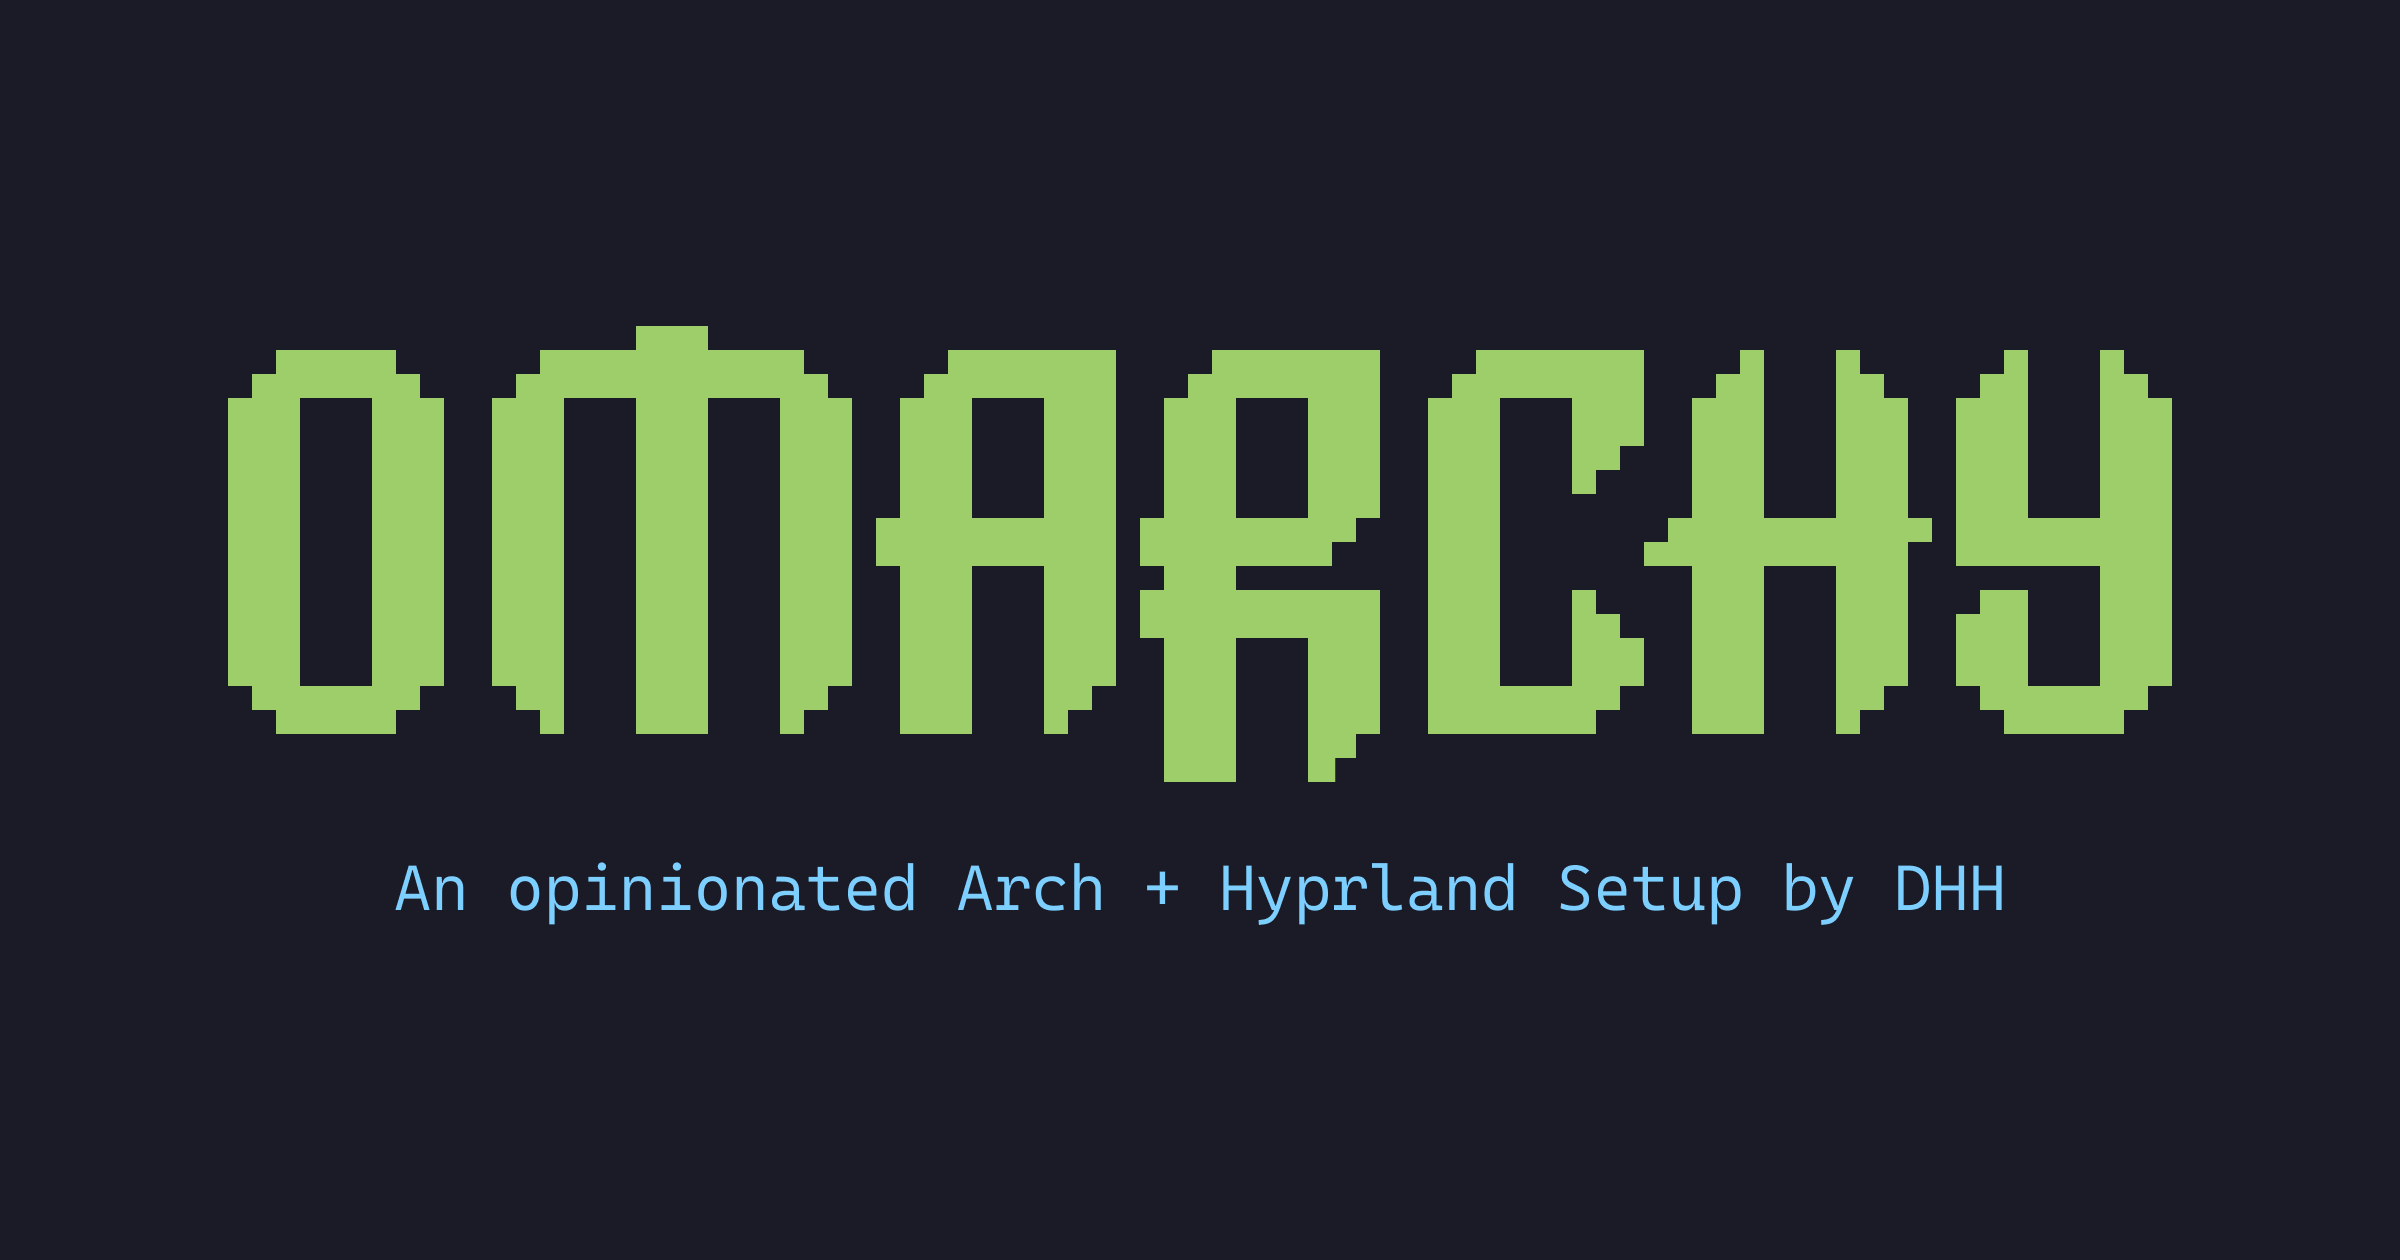
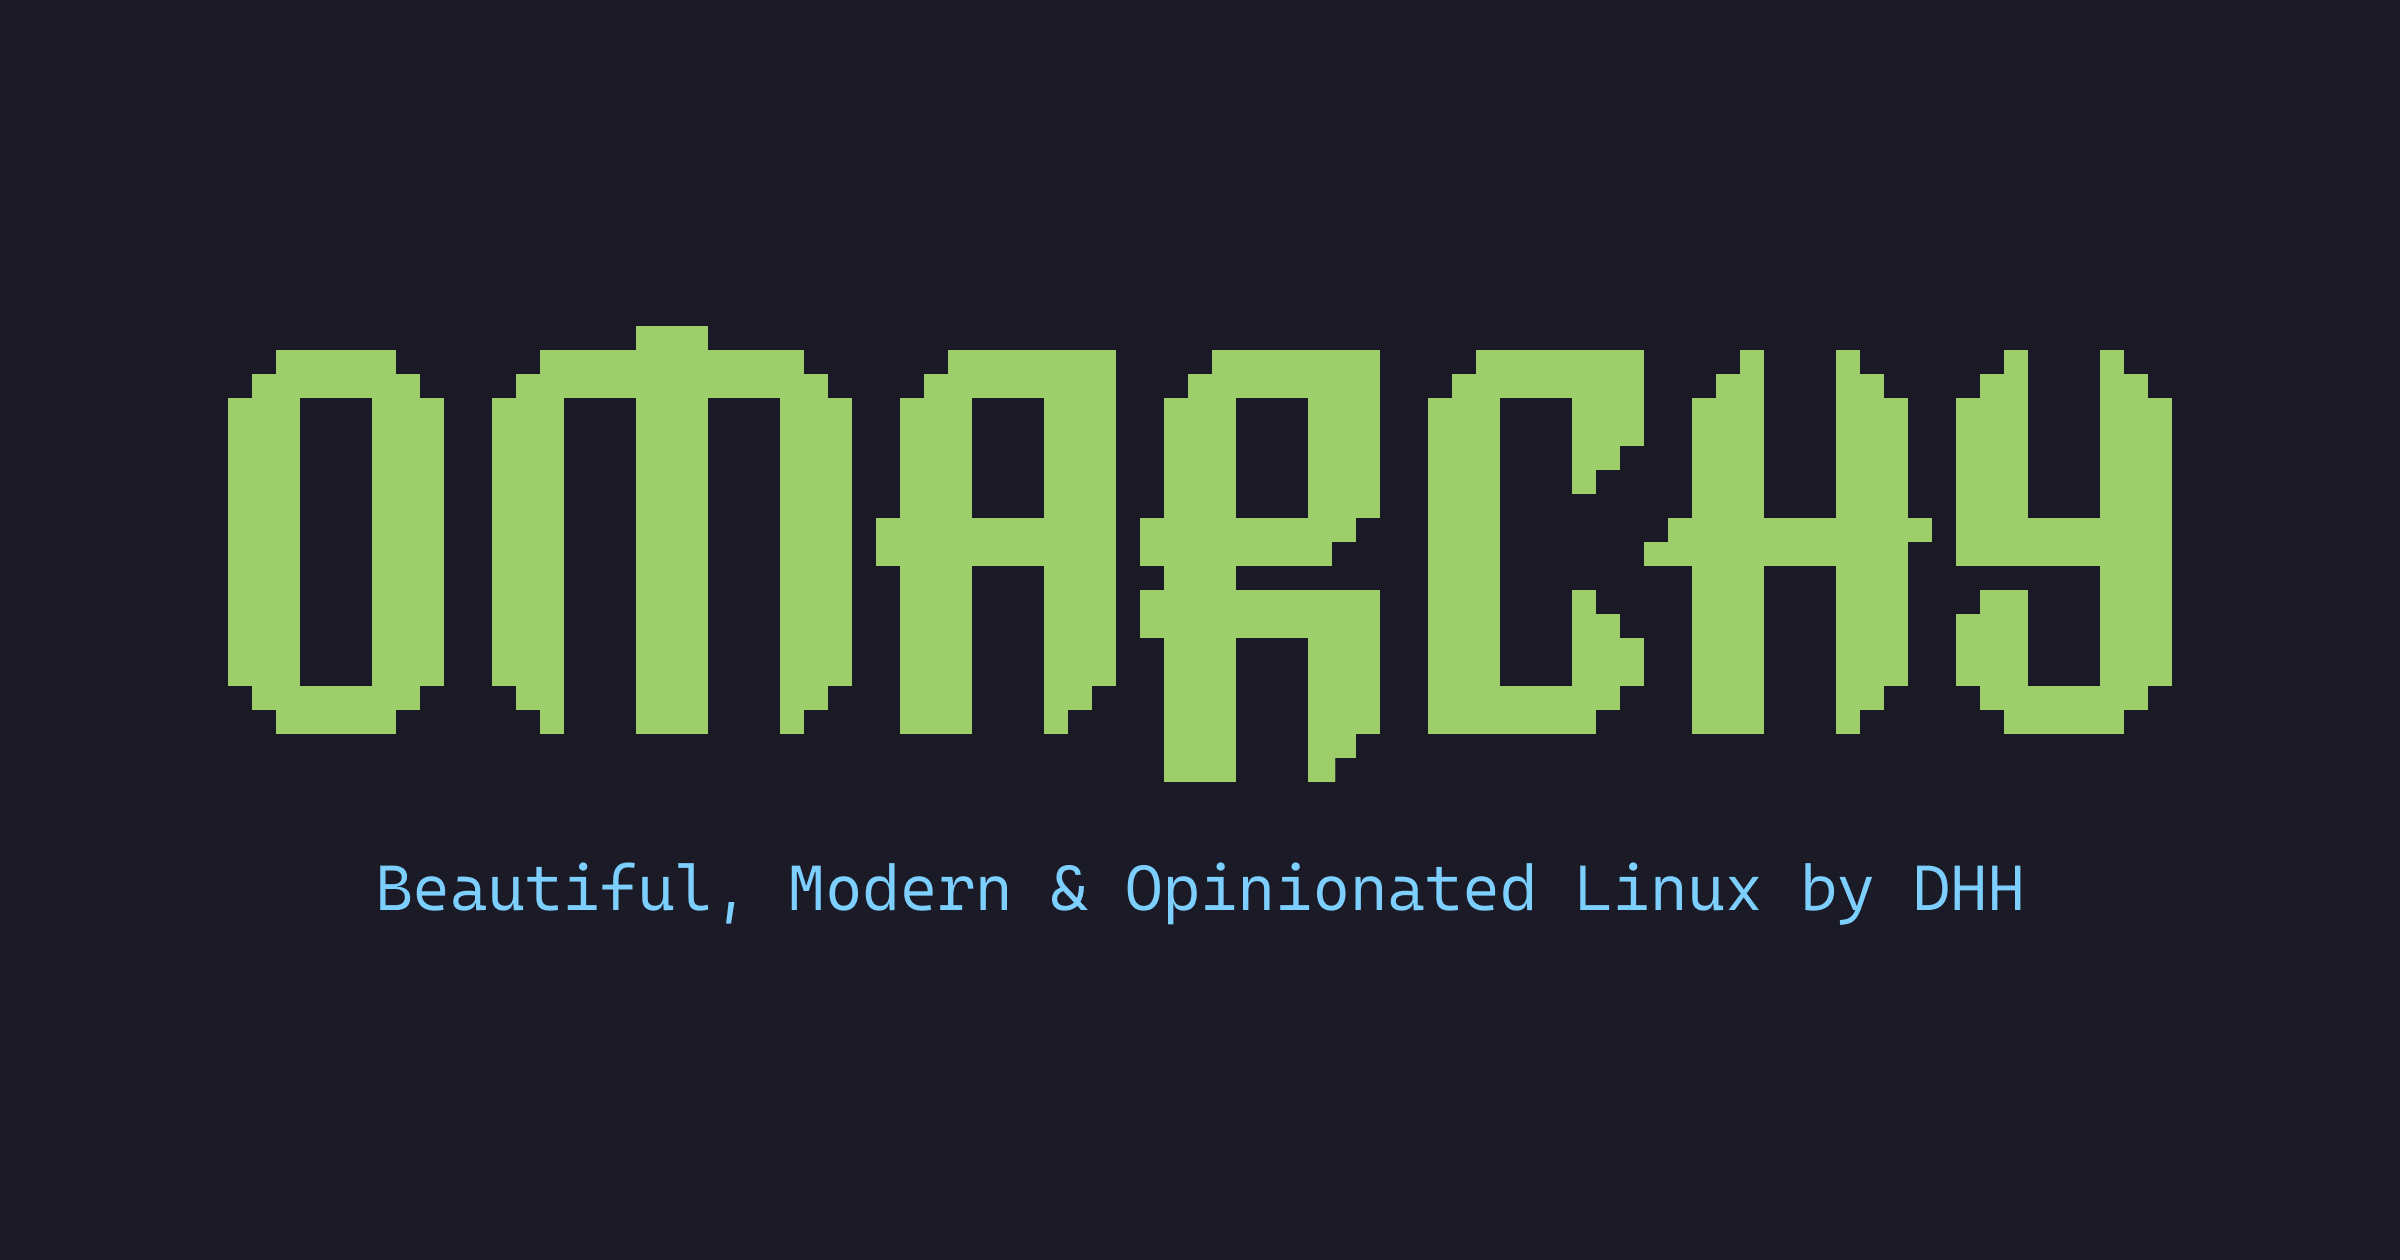
Make tagline consistent

Changed region(s): [[0.1562, 0.681, 0.8438, 0.7429]]

diff --git a/index.html b/index.html
@@ -2,21 +2,21 @@
 
 <html lang="en">
   <head>
-    <title>Omarchy — An opinionated Arch + Hyprland Setup by DHH</title>
+    <title>Omarchy — Beautiful, Modern &amp; Opinionated Linux by DHH</title>
 
     <meta charset="utf-8">
     <meta name="viewport" content="initial-scale=1, width=device-width">
-    <meta name="description" content="An opinionated Arch + Hyprland Setup by DHH">
+    <meta name="description" content="Beautiful, Modern &amp; Opinionated Linux by DHH">
 
     <meta property="og:site_name" content="Omarchy">
     <meta property="og:title" content="Omarchy">
-    <meta property="og:description" content="An opinionated Arch + Hyprland Setup by DHH">
+    <meta property="og:description" content="Beautiful, Modern &amp; Opinionated Linux by DHH">
     <meta property="og:image" content="https://omarchy.org/assets/images/opengraph.png">
     <meta property="og:url" content="https://omarchy.org">
     <meta property="og:type" content="website">
 
     <meta name="twitter:title" content="Omarchy">
-    <meta name="twitter:description" content="An opinionated Arch + Hyprland Setup by DHH">
+    <meta name="twitter:description" content="Beautiful, Modern &amp; Opinionated Linux by DHH">
     <meta name="twitter:image" content="https://omarchy.org/assets/images/opengraph.png">
     <meta name="twitter:image:alt" content="Omarchy">
     <meta name="twitter:card" content="summary_large_image">
@@ -63,7 +63,7 @@
     </div>
 
     <header class="header">
-      <h1>Beautiful, Modern & Opinionated Linux by <a href="https://dhh.dk/">DHH</a></h1>
+      <h1>Beautiful, Modern &amp; Opinionated Linux by <a href="https://dhh.dk/">DHH</a></h1>
     </header>
 
     <nav class="nav">

diff --git a/workstations/index.html b/workstations/index.html
@@ -2,21 +2,21 @@
 
 <html lang="en">
   <head>
-    <title>Omarchy — An opinionated Arch + Hyprland Setup by DHH</title>
+    <title>Omarchy — Beautiful, Modern &amp; Opinionated Linux by DHH</title>
 
     <meta charset="utf-8">
     <meta name="viewport" content="initial-scale=1, width=device-width">
-    <meta name="description" content="An opinionated Arch + Hyprland Setup by DHH">
+    <meta name="description" content="Beautiful, Modern &amp; Opinionated Linux by DHH">
 
     <meta property="og:site_name" content="Omarchy">
     <meta property="og:title" content="Omarchy">
-    <meta property="og:description" content="An opinionated Arch + Hyprland Setup by DHH">
+    <meta property="og:description" content="Beautiful, Modern &amp; Opinionated Linux by DHH">
     <meta property="og:image" content="https://omarchy.org/assets/images/opengraph.png">
     <meta property="og:url" content="https://omarchy.org">
     <meta property="og:type" content="website">
 
     <meta name="twitter:title" content="Omarchy">
-    <meta name="twitter:description" content="An opinionated Arch + Hyprland Setup by DHH">
+    <meta name="twitter:description" content="Beautiful, Modern &amp; Opinionated Linux by DHH">
     <meta name="twitter:image" content="https://omarchy.org/assets/images/opengraph.png">
     <meta name="twitter:image:alt" content="Omarchy">
     <meta name="twitter:card" content="summary_large_image">

diff --git a/README.md b/README.md
@@ -1,5 +1,5 @@
 # Omarchy
 
-An opinionated Arch + Hyprland Setup by DHH.
+Beautiful, Modern & Opinionated Linux by DHH.
 
 See https://github.com/basecamp/omarchy for more.
